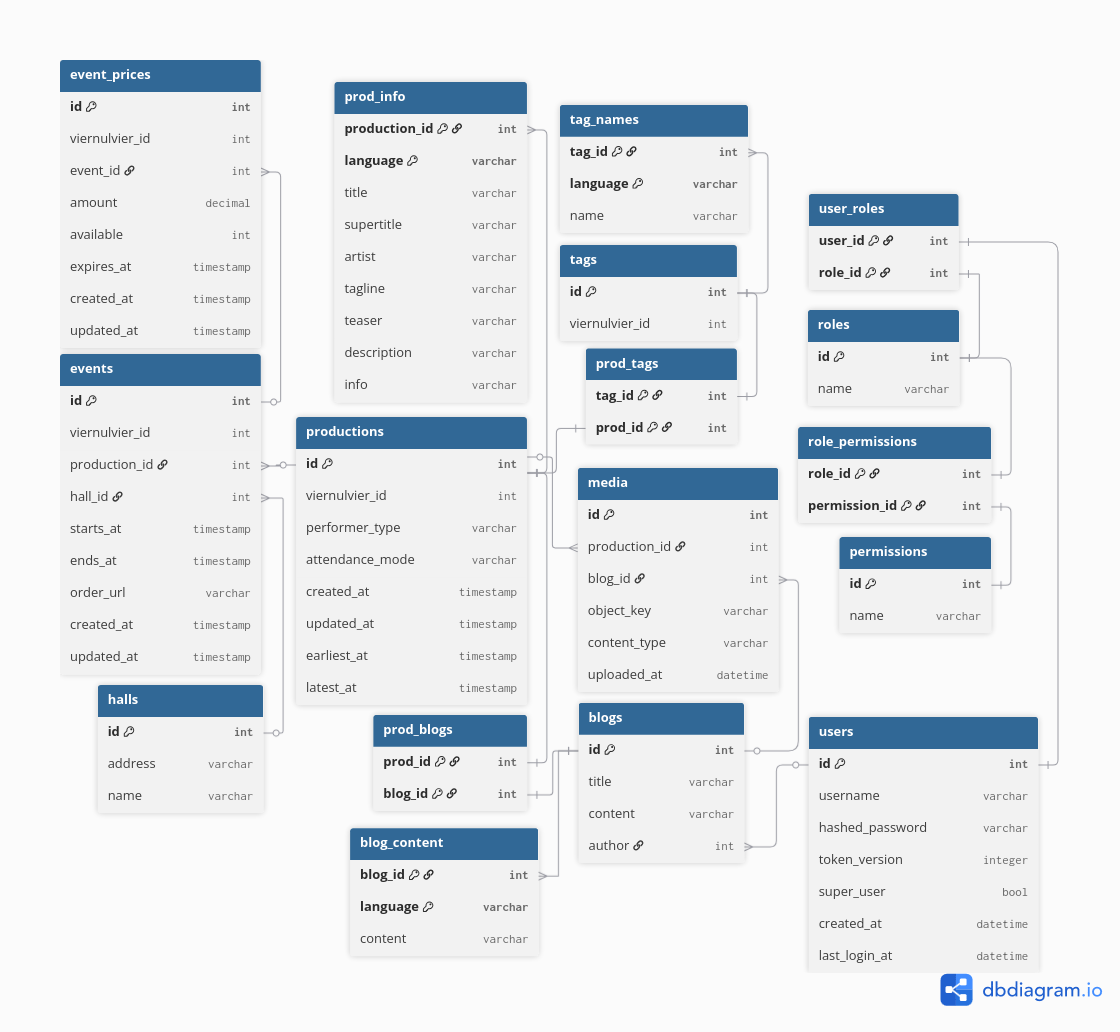
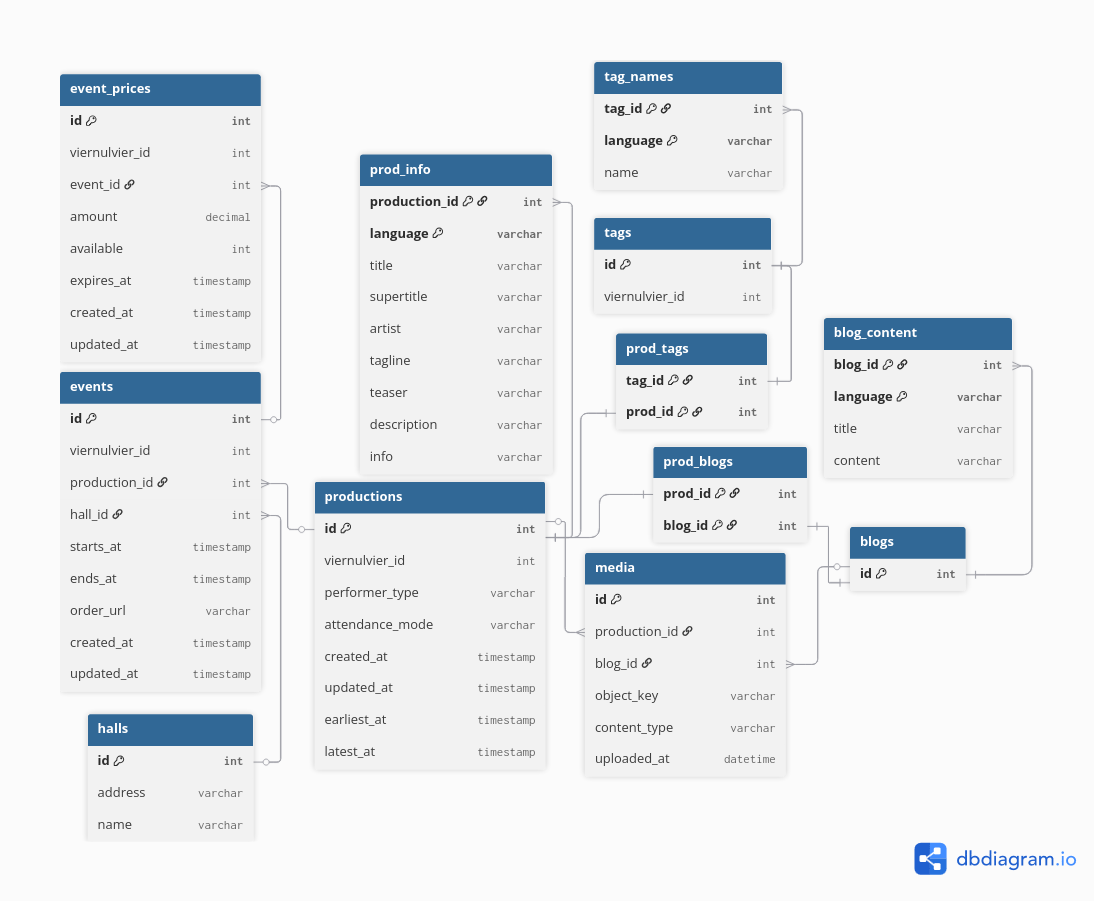
updated er-diagram

diff --git a/docs/domain-model.md b/docs/domain-model.md
@@ -102,45 +102,13 @@ Table prod_blogs {
 
 Table blogs {
   id int [pk]
-  title varchar
-  content varchar
-  author int [ref: > users.id]
 }
 
 Table blog_content {
   blog_id int [pk, ref: > blogs.id]
   language varchar [pk]
+  title varchar
   content varchar
-}
-
-Table users {
-  id int [pk]
-  username varchar
-  hashed_password varchar
-  token_version integer
-  super_user bool
-  created_at datetime
-  last_login_at datetime
-}
-
-Table user_roles {
-  user_id int [pk, ref: - users.id]
-  role_id int [pk, ref: - roles.id]
-}
-
-Table roles {
-  id int [pk]
-  name varchar
-}
-
-Table role_permissions {
-  role_id int [pk, ref: - roles.id]
-  permission_id int [pk, ref: - permissions.id]
-}
-
-Table permissions {
-  id int [pk]
-  name varchar
 }
 ```
 </details>
